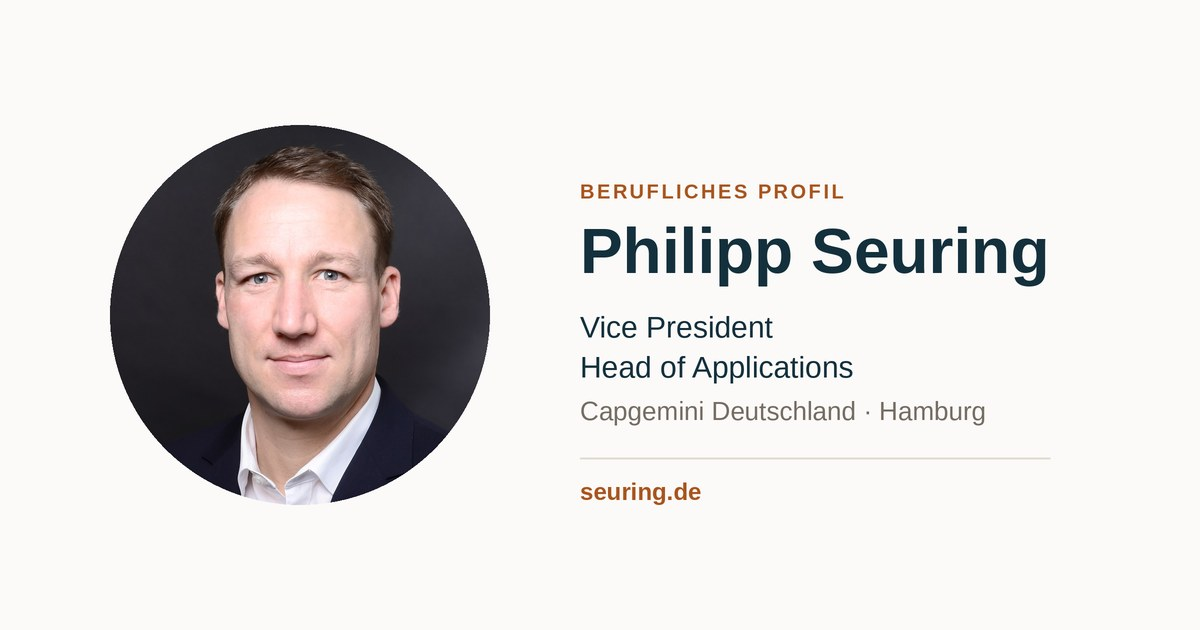
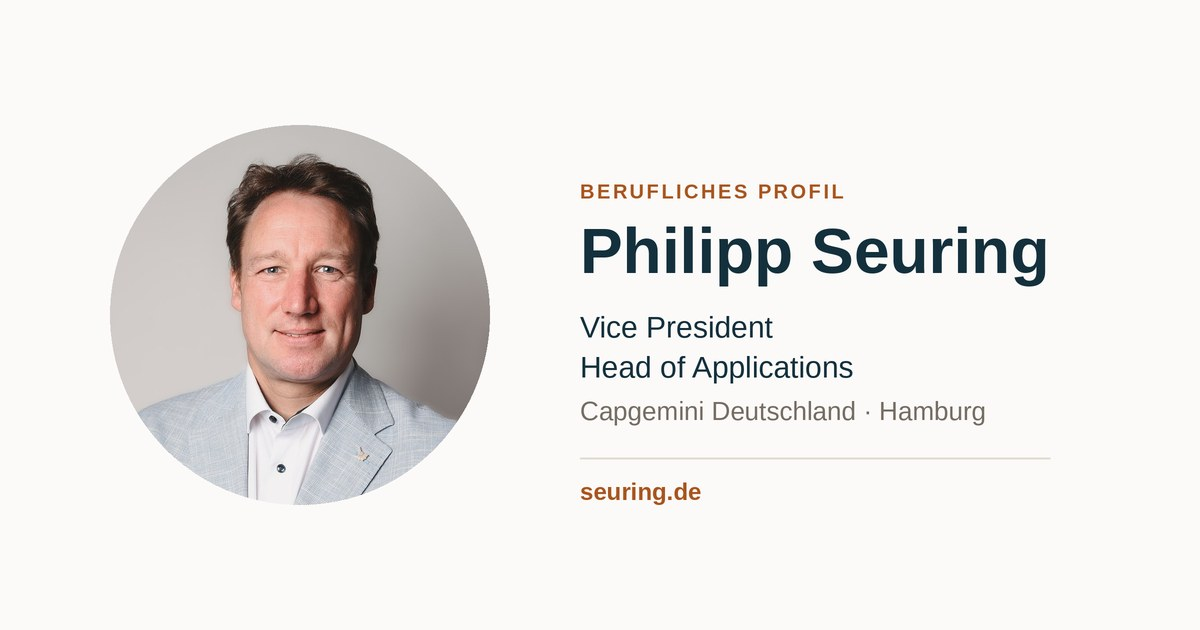
Portraet: Foto 2024 (67b8a3c9) statt 2019, Vorschaubild neu erzeugt

Changed region(s): [[0.0925, 0.181, 0.4317, 0.8143]]

diff --git a/index.html b/index.html
@@ -13,7 +13,7 @@
 <link rel="apple-touch-icon" href="/assets/apple-touch-icon.png">
 
 <!-- Linkvorschau (LinkedIn, Messenger). Das Vorschaubild liegt auf dieser Seite
-     selbst – keine Fremdanfrage. Erzeugt 27.09.2026 aus assets/portrait.jpg. -->
+     selbst – keine Fremdanfrage. Erzeugt 27.09.2026 aus assets/portrait.jpg (Foto 2024). -->
 <meta property="og:type" content="profile">
 <meta property="og:locale" content="de_DE">
 <meta property="og:site_name" content="Philipp Seuring">
@@ -58,9 +58,9 @@
        ============================================================ -->
   <aside class="identity">
 
-    <!-- Porträt: assets/portrait.jpg, Zuschnitt aus 2019_PhilippSeuring_Foto_1.jpg
-         (Auswahl 06.09.2026 – zentriert, direkter Blick, passt auf dunklem
-         Grund am saubersten in den Kreis). Als CSS-Hintergrund eingebunden:
+    <!-- Porträt: assets/portrait.jpg, Zuschnitt aus images/67b8a3c9.jpg
+         (Aufnahme 2024, eingesetzt 27.09.2026 – frontal, mittig, heller Grund;
+         löst das Foto von 2019 ab). Als CSS-Hintergrund eingebunden:
          Fehlt die Datei einmal, bleibt der Kreis leer statt ein kaputtes
          Bildsymbol zu zeigen – die Seite bleibt vollständig. -->
     <div class="portrait" role="img" aria-label="Porträtfoto von Philipp Seuring"></div>
